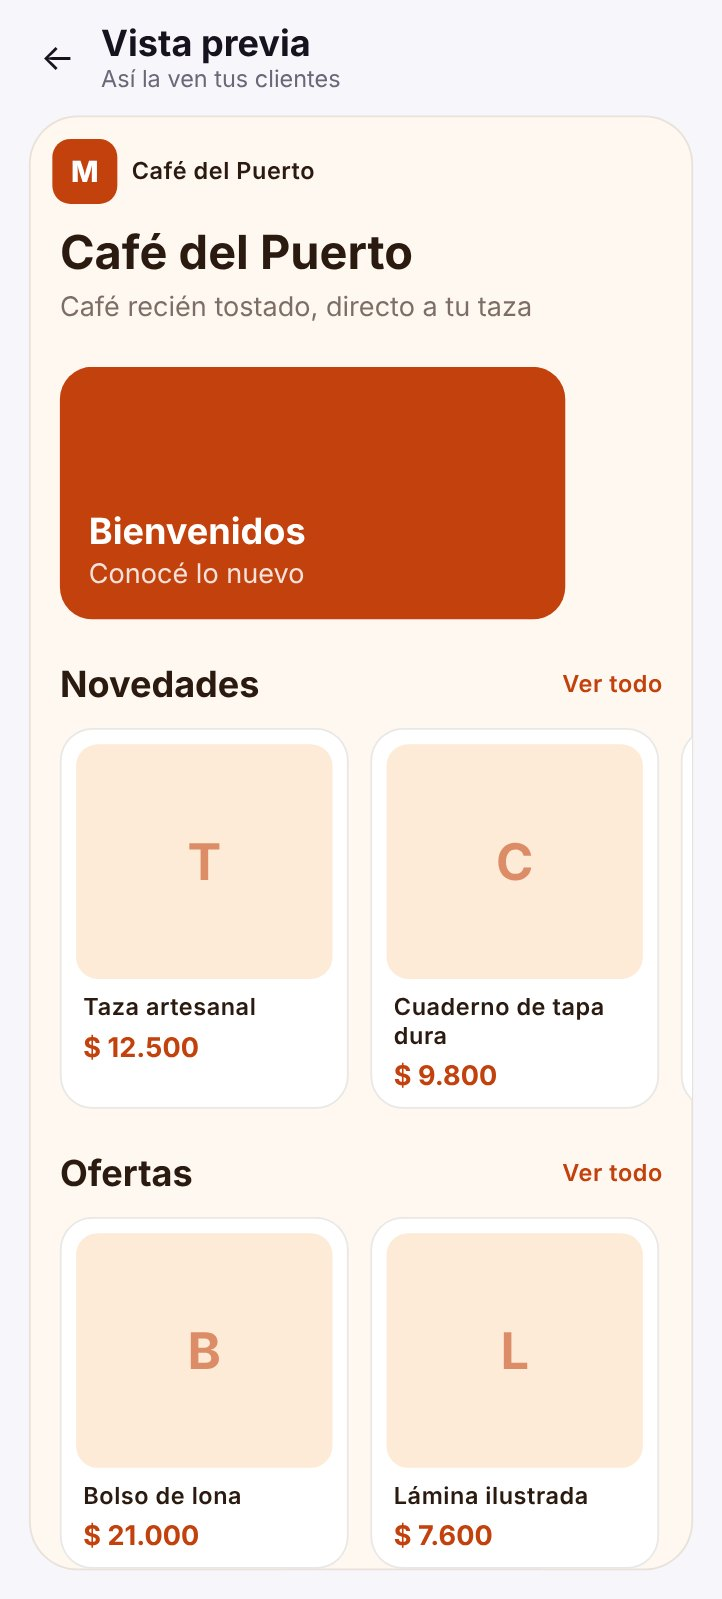
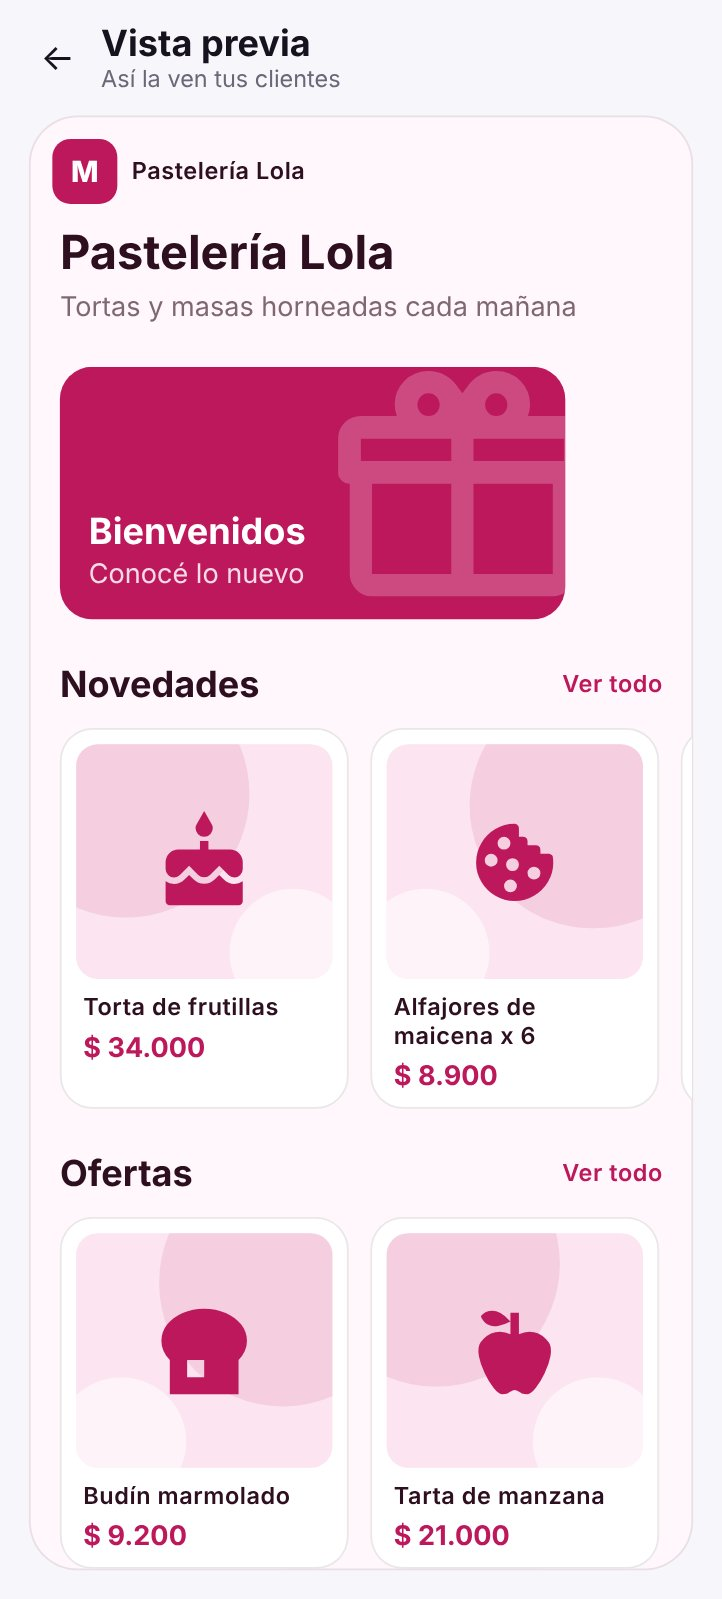
Nuevas capturas de Mallnest y Mallnest Business
Claude-Session: https://claude.ai/code/session_013TvmqHNkkNUVeqYEJ75zy6

diff --git a/lib/apps.ts b/lib/apps.ts
@@ -377,11 +377,11 @@ export const apps: App[] = [
       },
       {
         src: "/apps/mallnest/03.jpg",
-        alt: { es: "Inicio de una tienda de moda con su marca, banners y colecciones", en: "A fashion store's home with its own brand, banners and collections", pt: "Início de uma loja de moda com a sua marca, banners e coleções", it: "Home di un negozio di moda con il suo marchio, banner e collezioni" },
+        alt: { es: "Inicio de una pastelería con su marca, banners y colecciones", en: "A bakery's home with its own brand, banners and collections", pt: "Início de uma confeitaria com a sua marca, banners e coleções", it: "Home di una pasticceria con il suo marchio, banner e collezioni" },
       },
       {
         src: "/apps/mallnest/04.jpg",
-        alt: { es: "Inicio de una cafetería: cada tienda tiene sus propios colores", en: "A coffee shop's home: every store has its own colors", pt: "Início de uma cafeteria: cada loja tem as suas próprias cores", it: "Home di una caffetteria: ogni negozio ha i suoi colori" },
+        alt: { es: "Inicio de un pet shop: cada tienda tiene sus propios colores", en: "A pet shop's home: every store has its own colors", pt: "Início de um pet shop: cada loja tem as suas próprias cores", it: "Home di un pet shop: ogni negozio ha i suoi colori" },
       },
       {
         src: "/apps/mallnest/05.jpg",
@@ -394,6 +394,10 @@ export const apps: App[] = [
       {
         src: "/apps/mallnest/07.jpg",
         alt: { es: "Carrito antes de pagar en el checkout de Shopify", en: "Cart before paying in the Shopify checkout", pt: "Carrinho antes de pagar no checkout da Shopify", it: "Carrello prima di pagare nel checkout Shopify" },
+      },
+      {
+        src: "/apps/mallnest/08.jpg",
+        alt: { es: "Inicio de una tienda de moda", en: "A fashion store's home", pt: "Início de uma loja de moda", it: "Home di un negozio di moda" },
       },
     ],
     privacy: {
